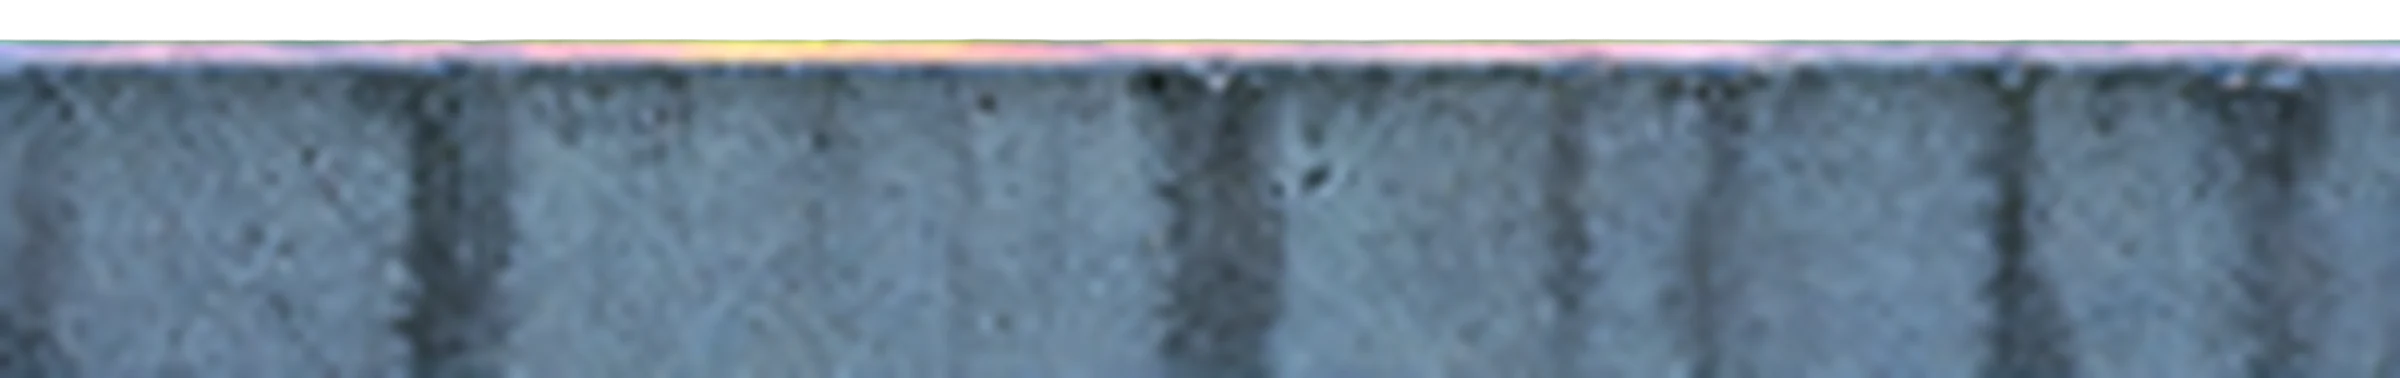
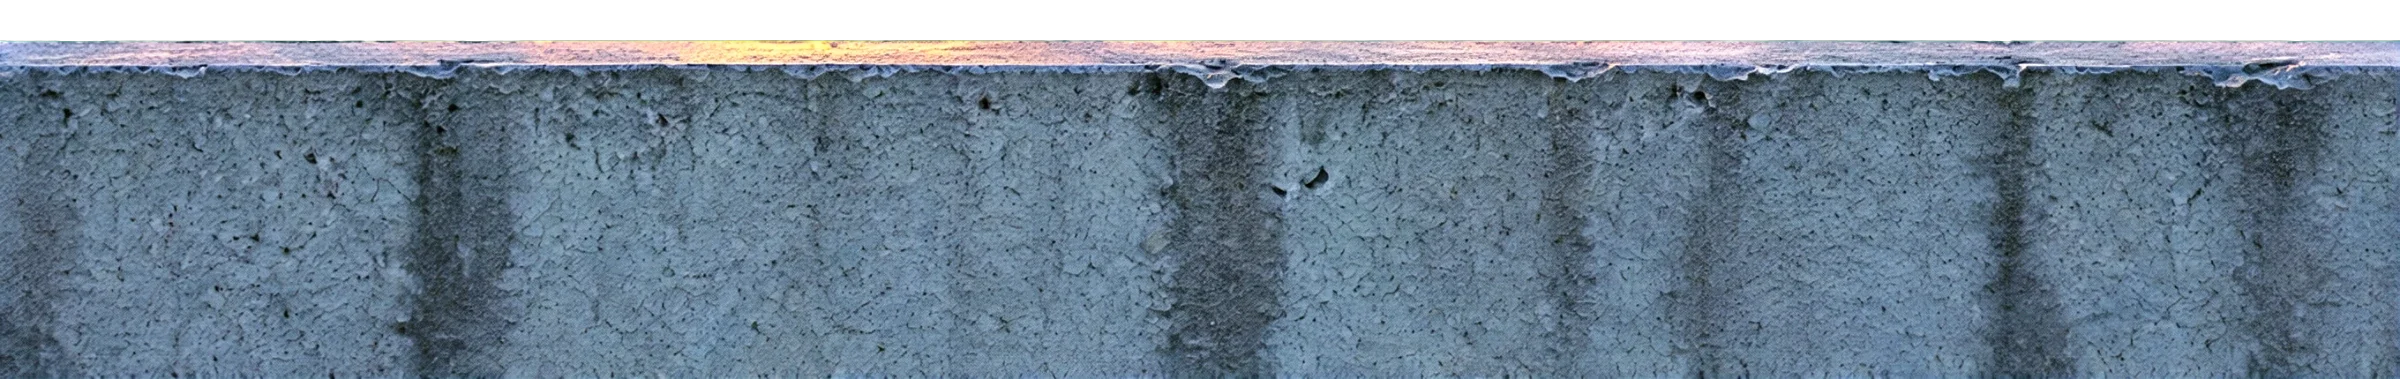
Full-size hero images, ledge and prism tuning, short-screen tray fix
Claude-Session: https://claude.ai/code/session_011ABDWaHY9HHnc55beuTamA

diff --git a/index.html b/index.html
@@ -61,14 +61,14 @@ a { color: inherit; }
     radial-gradient(60% 45% at 70% 72%, rgba(242,182,90,.18), transparent 70%),
     radial-gradient(80% 60% at 20% 10%, rgba(10,22,40,.0), rgba(10,22,40,.0)); }
 .plane--haze { inset: auto -5% 8% -5%; height: 38%; background: linear-gradient(180deg, transparent, rgba(160,190,225,.16) 55%, rgba(10,22,40,0)); filter: blur(6px); }
-.hero { --ledge: clamp(110px, 19vh, 210px); }
-.plane--ledge { left: 0; right: 0; bottom: -40px; width: 100%; height: calc(var(--ledge) + 40px); object-fit: cover; object-position: 50% 0; }
+.hero { --ledge: clamp(72px, 12vh, 130px); }
+.plane--ledge { left: 0; right: 0; bottom: -40px; width: 100%; height: calc(var(--ledge) + 40px); object-fit: cover; object-position: 50% 0; filter: brightness(.5) saturate(.75) contrast(1.05); }
 .plane--prism { right: 12%; bottom: calc(var(--ledge) - 22px); width: clamp(170px, 17vw, 320px); height: auto; }
 .hero-floor { position: absolute; inset: auto 0 0 0; height: 160px; background: linear-gradient(180deg, transparent, var(--sc-canvas)); pointer-events: none; }
 .hero-scrim { position: absolute; inset: 0 30% 12% 0; background: radial-gradient(85% 85% at 8% 32%, rgba(6,14,28,.86), rgba(6,14,28,.55) 45%, rgba(6,14,28,0) 78%); pointer-events: none; z-index: 2; }
 .hero-beat::before { content: ""; position: absolute; inset: -40px -40px -40px -80px; z-index: -1; background: radial-gradient(closest-side, rgba(6,14,28,.75), rgba(6,14,28,0)); }
 .hero-copy { position: absolute; left: var(--sc-gutter); top: clamp(88px, 12vh, 132px); max-width: min(44rem, 56vw); z-index: 3; }
-.hero-copy h1 { font-size: clamp(2.6rem, 1.4rem + 4.2vw, 5.4rem); max-width: 13ch; }
+.hero-copy h1 { font-size: clamp(2.5rem, 1.2rem + 3.8vw, 5rem); max-width: 13ch; }
 .hero-copy h1 { margin: 0 0 var(--sc-5); }
 .hero-copy .sc-body { max-width: 36rem; color: #DCE7F0; margin: 0; }
 .hero-actions { display: flex; flex-wrap: wrap; align-items: center; gap: 12px; margin-top: var(--sc-4); }
@@ -236,11 +236,11 @@ a { color: inherit; }
 @media (max-width: 700px) {
   .plane--plate { inset: -60px 0 -60px 0; width: 100%; height: calc(100% + 120px); object-position: 50% 50%; }
   .plane--ledge { width: 180%; left: -40%; bottom: -24px; }
-  .plane--prism { right: 6%; bottom: calc(16vw - 24px); width: 34vw; }
+  .plane--prism { right: 6%; bottom: calc(var(--ledge) + 4px); width: 30vw; }
   .hero-copy { top: 84px; max-width: none; right: var(--sc-gutter); }
   .hero-beat { display: none; }
   .hero-actions .btn { width: 100%; }
-  .hero-scrim { inset: 0 0 30% 0; background: linear-gradient(180deg, rgba(7,16,32,.72), rgba(7,16,32,.35) 60%, rgba(7,16,32,0)); }
+  .hero-scrim { inset: 0 0 12% 0; background: linear-gradient(180deg, rgba(7,16,32,.84) 0%, rgba(7,16,32,.7) 45%, rgba(7,16,32,.45) 75%, rgba(7,16,32,0)); }
   .systems { grid-template-columns: 1fr; }
   .sys:nth-child(n) { grid-column: auto; }
   .sys h3 { font-size: var(--sc-t-lg); }
@@ -505,7 +505,7 @@ a { color: inherit; }
 (function () {
   var tray = document.getElementById("night"), clock = document.getElementById("nightClock"), state = document.getElementById("nightState");
   var items = [].slice.call(tray.querySelectorAll(".night__item"));
-  var peak = document.getElementById("build"), close = document.getElementById("assessment");
+  var peak = document.getElementById("build"), close = document.getElementById("assessment"); var heroEl = document.querySelector(".hero");
   var marks = [].slice.call(document.querySelectorAll("[data-night]"));
   // waypoints: [element or fraction, minutes after 5:00 PM]
   function fmt(m) { var h = 5 + Math.floor(m / 60), mm = Math.round(m % 60); if (mm === 60) { h++; mm = 0; } return h + ":" + (mm < 10 ? "0" : "") + mm + " PM"; }
@@ -547,6 +547,9 @@ a { color: inherit; }
     tray.classList.toggle("is-open", inPeak && r.bottom > vh * 0.5);
     tray.classList.toggle("is-chip", r.bottom <= vh * 0.5);
     if (innerWidth <= 700 && r.bottom <= vh * 0.5) tray.classList.add("is-quiet");
+    // short screens: keep the tray off the hero buttons until the hero scrolls away
+    var hr = heroEl.getBoundingClientRect();
+    if (vh < 820 && hr.bottom > vh * 0.55) tray.classList.add("is-quiet");
   }
   var queued = false;
   function onScroll() { if (!queued) { queued = true; requestAnimationFrame(function () { queued = false; tick(); }); } }
